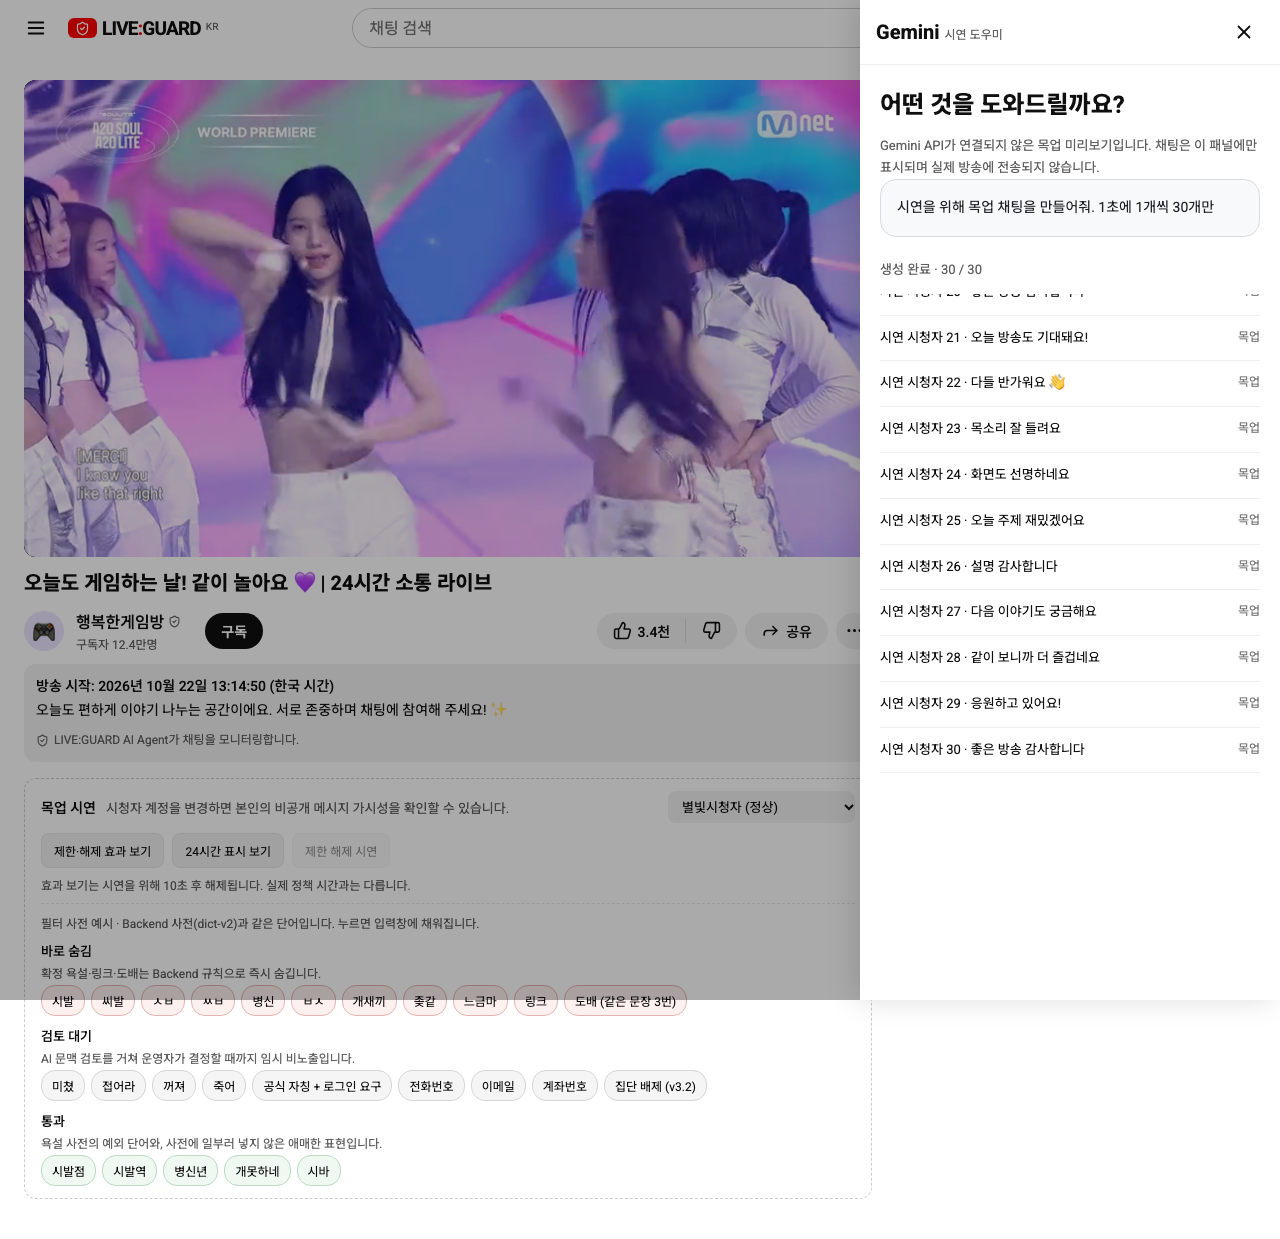
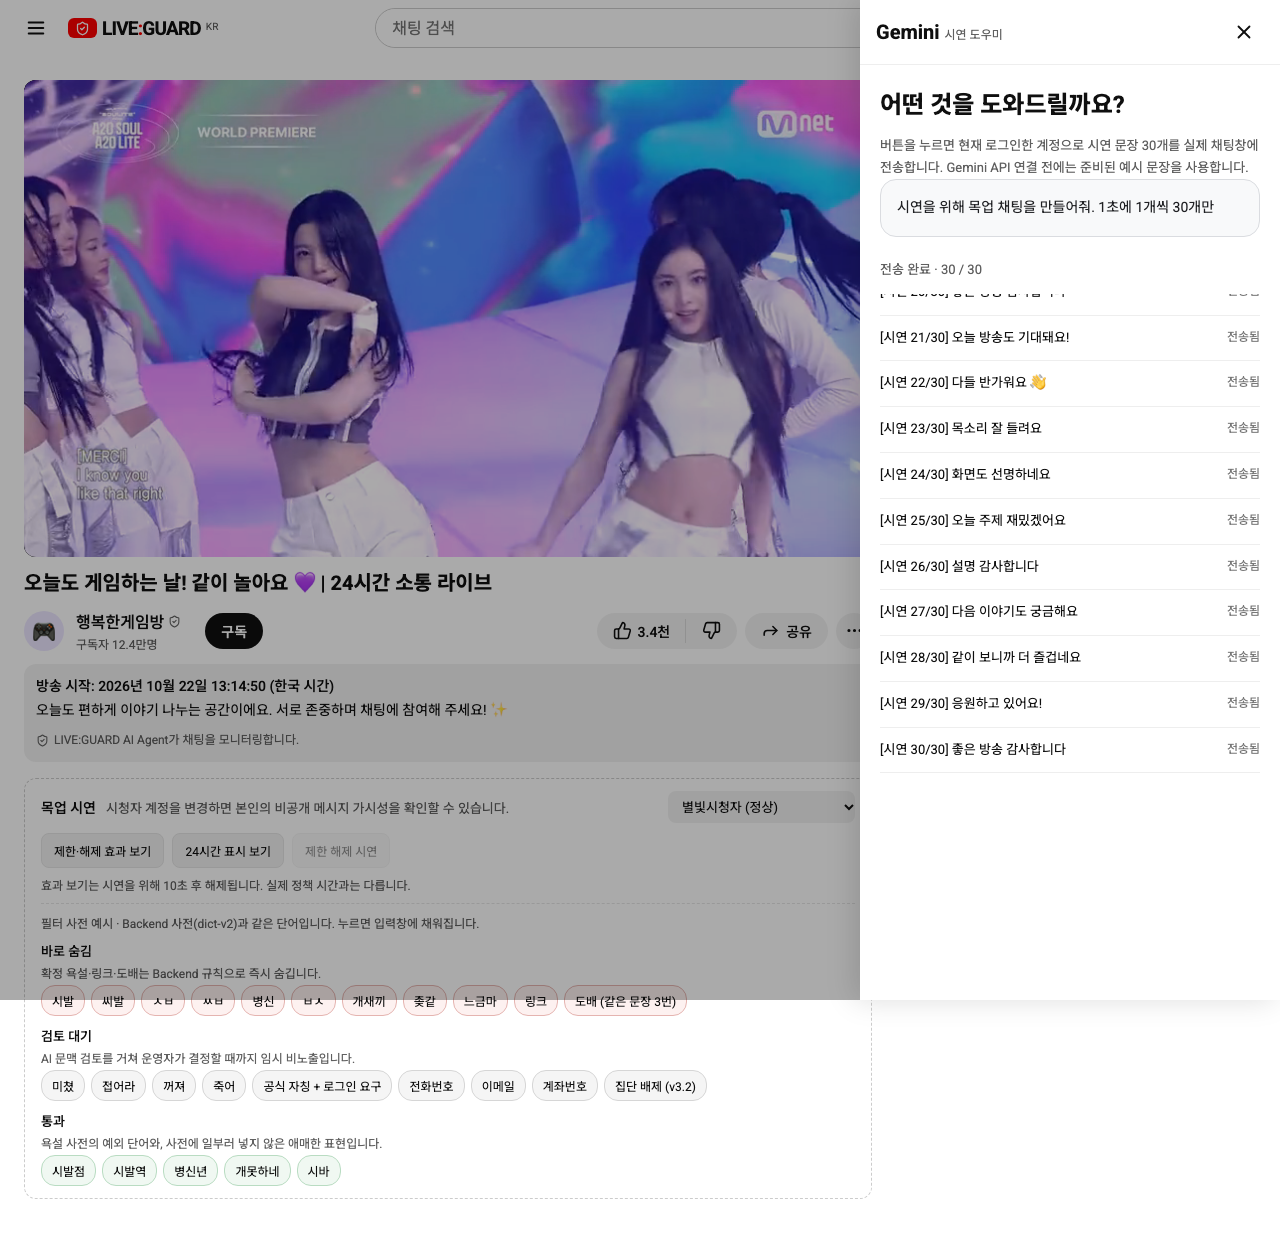
fix: send assistant demo messages into the actual viewer chat

diff --git a/src/ViewerAssistant.vue b/src/ViewerAssistant.vue
@@ -1,31 +1,35 @@
 <script setup lang="ts">
-import {nextTick,onBeforeUnmount,ref,watch} from 'vue';
+import {nextTick,onBeforeUnmount,onMounted,ref,watch} from 'vue';
 import {X} from 'lucide-vue-next';
-const props=defineProps<{scopeKey:string}>();
-const open=ref(false),trigger=ref<HTMLButtonElement|null>(null),closeButton=ref<HTMLButtonElement|null>(null),list=ref<HTMLElement|null>(null);
-const chats=ref<string[]>([]),running=ref(false);
+const props=defineProps<{scopeKey:string;disabled:boolean;sendChat?:(text:string)=>Promise<boolean>}>();
+const open=ref(false),trigger=ref<HTMLButtonElement|null>(null),closeButton=ref<HTMLButtonElement|null>(null),list=ref<HTMLElement|null>(null),panel=ref<HTMLElement|null>(null);
+const chats=ref<string[]>([]),running=ref(false),failure=ref(''),pending=ref(false);
+let generation=0;
 let timer:ReturnType<typeof setInterval>|undefined;
 const lines=['오늘 방송도 기대돼요!','다들 반가워요 👋','목소리 잘 들려요','화면도 선명하네요','오늘 주제 재밌겠어요','설명 감사합니다','다음 이야기도 궁금해요','같이 보니까 더 즐겁네요','응원하고 있어요!','좋은 방송 감사합니다'];
-function stop(){if(timer)clearInterval(timer);timer=undefined;running.value=false;}
-function start(){if(running.value)return;chats.value=[];running.value=true;timer=setInterval(async()=>{const n=chats.value.length;chats.value.push(`시연 시청자 ${n+1} · ${lines[n%lines.length]}`);if(chats.value.length===30)stop();await nextTick();list.value?.scrollTo({top:list.value.scrollHeight});},1000);}
+function stop(){generation++;if(timer)clearInterval(timer);timer=undefined;running.value=false;}
+function start(){if(running.value||pending.value||props.disabled||!props.sendChat)return;chats.value=[];failure.value='';running.value=true;const run=++generation;timer=setInterval(async()=>{if(pending.value||run!==generation)return;if(props.disabled){stop();return;}pending.value=true;const n=chats.value.length;const text=`[시연 ${n+1}/30] ${lines[n%lines.length]}`;try{const ok=await props.sendChat!(text);if(run!==generation)return;if(!ok){failure.value='전송이 중단되었습니다. 방송 상태와 채팅 제한을 확인해 주세요.';stop();return;}chats.value.push(text);if(chats.value.length===30)stop();await nextTick();list.value?.scrollTo({top:list.value.scrollHeight});}catch{if(run===generation){failure.value='채팅 전송에 실패하여 중단했습니다.';stop();}}finally{pending.value=false;}},1000);}
 async function show(){open.value=true;await nextTick();closeButton.value?.focus();}
-function close(){open.value=false;stop();trigger.value?.focus();}
-function key(e:KeyboardEvent){if(e.key==='Escape'){e.preventDefault();e.stopPropagation();close();}else if(e.key==='Tab'){const buttons=Array.from((e.currentTarget as HTMLElement).querySelectorAll<HTMLButtonElement>('button:not(:disabled)'));const first=buttons[0],last=buttons[buttons.length-1];if(e.shiftKey&&document.activeElement===first){e.preventDefault();last?.focus();}else if(!e.shiftKey&&document.activeElement===last){e.preventDefault();first?.focus();}}}
+async function close(){open.value=false;stop();await nextTick();trigger.value?.focus();}
+function key(e:KeyboardEvent){if(!open.value)return;if(e.key==='Escape'){e.preventDefault();e.stopPropagation();close();}else if(e.key==='Tab'){const buttons=Array.from(panel.value?.querySelectorAll<HTMLButtonElement>('button:not(:disabled)')??[]);const first=buttons[0],last=buttons[buttons.length-1];if(e.shiftKey&&document.activeElement===first){e.preventDefault();last?.focus();}else if(!e.shiftKey&&document.activeElement===last){e.preventDefault();first?.focus();}}}
 watch(()=>props.scopeKey,()=>{stop();chats.value=[];open.value=false;});
-onBeforeUnmount(stop);
+watch(()=>props.disabled,value=>{if(value&&running.value){failure.value='방송 상태 또는 채팅 제한으로 중단되었습니다.';stop();}});
+onMounted(()=>document.addEventListener('keydown',key));
+onBeforeUnmount(()=>{stop();document.removeEventListener('keydown',key);});
 </script>
 <template>
  <button ref="trigger" type="button" class="yt-icon-button viewer-assistant-trigger" aria-label="Gemini 시연 도우미 열기" aria-haspopup="dialog" :aria-expanded="open" @click="show"><svg viewBox="0 0 32 32" width="28" height="28" aria-hidden="true"><defs><linearGradient id="viewer-assistant-gradient" x1="0" y1="1" x2="1" y2="0"><stop stop-color="#4285f4"/><stop offset=".45" stop-color="#9b72cb"/><stop offset=".72" stop-color="#d96570"/><stop offset="1" stop-color="#fbbc04"/></linearGradient></defs><path fill="url(#viewer-assistant-gradient)" d="M16 1C14 10 10 14 1 16c9 2 13 6 15 15 2-9 6-13 15-15C22 14 18 10 16 1Z"/></svg></button>
  <Teleport to="body"><template v-if="open">
  <div class="viewer-assistant-shade" @click="close"/>
- <section class="viewer-assistant" role="dialog" aria-modal="true" aria-labelledby="viewer-assistant-title" @keydown="key">
+ <section ref="panel" class="viewer-assistant" role="dialog" aria-modal="true" aria-labelledby="viewer-assistant-title">
  <header><b>Gemini <small>시연 도우미</small></b><button ref="closeButton" type="button" class="yt-icon-button" aria-label="시연 도우미 닫기" @click="close"><X :size="22"/></button></header>
- <div class="viewer-assistant-content"><h2 id="viewer-assistant-title">어떤 것을 도와드릴까요?</h2><p>Gemini API가 연결되지 않은 목업 미리보기입니다. 채팅은 이 패널에만 표시되며 실제 방송에 전송되지 않습니다.</p>
- <button type="button" class="viewer-assistant-prompt" :disabled="running" @click="start">시연을 위해 목업 채팅을 만들어줘. 1초에 1개씩 30개만</button>
- <div class="viewer-assistant-progress" role="status">{{running?'목업 채팅 생성 중':chats.length===30?'생성 완료':'목업 채팅 미리보기'}} · {{chats.length}} / 30</div>
+ <div class="viewer-assistant-content"><h2 id="viewer-assistant-title">어떤 것을 도와드릴까요?</h2><p>버튼을 누르면 현재 로그인한 계정으로 시연 문장 30개를 실제 채팅창에 전송합니다. Gemini API 연결 전에는 준비된 예시 문장을 사용합니다.</p>
+ <button type="button" class="viewer-assistant-prompt" :disabled="running||pending||disabled||!sendChat" @click="start">시연을 위해 목업 채팅을 만들어줘. 1초에 1개씩 30개만</button>
+ <div class="viewer-assistant-progress" role="status">{{running?'채팅창에 전송 중':chats.length===30?'전송 완료':'전송한 시연 채팅'}} · {{chats.length}} / 30</div>
+ <p v-if="disabled">방송 중이며 채팅할 수 있는 상태에서 실행할 수 있습니다.</p><p v-if="failure" role="alert">{{failure}}</p>
  <button v-if="running" type="button" class="viewer-assistant-stop" @click="stop">생성 중지</button>
- <p v-if="!chats.length" class="viewer-assistant-empty">버튼을 누르면 1초 뒤 첫 채팅이 표시됩니다.</p>
- <ol ref="list" class="viewer-assistant-chats" aria-label="목업 채팅 미리보기"><li v-for="(chat,i) in chats" :key="i"><span>{{chat}}</span><small>목업</small></li></ol>
+ <p v-if="!chats.length" class="viewer-assistant-empty">버튼을 누르면 1초 뒤 첫 채팅을 전송합니다.</p>
+ <ol ref="list" class="viewer-assistant-chats" aria-label="전송한 시연 채팅"><li v-for="(chat,i) in chats" :key="i"><span>{{chat}}</span><small>전송됨</small></li></ol>
  </div></section>
  </template></Teleport>
 </template>

diff --git a/src/LiveConsole.vue b/src/LiveConsole.vue
@@ -220,6 +220,15 @@ async function send(){
  try{await api.sendLive(live.value.liveId,value,outgoing.id);text.value='';outgoing=null;await refresh();}
  catch(e){fail(e);}finally{busy.value=false;}
 }
+// Uses the normal authenticated chat endpoint; never changes the user's draft.
+async function sendDemoChat(value:string):Promise<boolean>{
+ if(chatDisabled.value||!live.value)return false;
+ const liveId=live.value.liveId;
+ if(!await sessionValid()||chatDisabled.value||live.value?.liveId!==liveId)return false;
+ busy.value=true;error.value='';
+ try{await api.sendLive(liveId,value,uuid());await refresh();return true;}
+ catch(e){fail(e);return false;}finally{busy.value=false;}
+}
 const requests=new Map<string,{serialized:string;id:string}>();
 async function decide(r:LiveReview,value:string,reason:string,categories:Category[]){
  if(!await sessionValid())return;
@@ -256,7 +265,7 @@ onMounted(()=>{load();window.addEventListener('focus',checkSession);if(authChann
 onBeforeUnmount(()=>{generation++;disconnect();window.removeEventListener('focus',checkSession);authChannel?.close();if(timer)clearInterval(timer);if(clockTimer)clearInterval(clockTimer);});
 </script>
 <template>
- <ViewerScreen v-if="!operator&&!admin" v-model:draft="text" :messages="visibleMessages" :nickname="store.me?.nickname??'시청자'" :scope-key="`${store.me?.userId}:${live?.liveId??''}`" :clock="clock" :ready="accessReady" :loading="loading" :has-live="!!live" :blocked="blocked" :ended="ended" :busy="busy" :timed-out="timedOut" :timeout-until="timeoutUntil" :timeout-reason="timeoutReason" :started-at="live?.startedAt" :online="online" :error="error" :notice="notice" @send="send" @logout="store.logout()"/>
+ <ViewerScreen :send-demo-chat="sendDemoChat" v-if="!operator&&!admin" v-model:draft="text" :messages="visibleMessages" :nickname="store.me?.nickname??'시청자'" :scope-key="`${store.me?.userId}:${live?.liveId??''}`" :clock="clock" :ready="accessReady" :loading="loading" :has-live="!!live" :blocked="blocked" :ended="ended" :busy="busy" :timed-out="timedOut" :timeout-until="timeoutUntil" :timeout-reason="timeoutReason" :started-at="live?.startedAt" :online="online" :error="error" :notice="notice" @send="send" @logout="store.logout()"/>
  <StudioScreen v-else-if="operator" :nickname="store.me?.nickname??'스트리머'" :live="live" :ended="ended" :loading="loading" :online="online" :messages="visibleMessages" :reviews="reviews" :cases="caseHistory" :case-names="caseNames" :logs="logs" :kick-progress="kickProgress" :archive="archive" :archive-more="archiveMore" :archive-loading="archiveLoading" :busy="busy" :error="error" :notice="notice"
   @decide="decide" @revoke="revoke" @start="start" @end="end" @logout="store.logout()" @page="onPage" @load-older="loadArchive(false)"/>
  <!-- 시스템 운영자: 목업과 같은 화면. 백엔드에 시스템 운영자 권한과 여러 방송 조회 API가 없어 데이터 칸은 비어 있다 -->

diff --git a/src/ViewerScreen.vue b/src/ViewerScreen.vue
@@ -14,6 +14,7 @@ import { avatarColor } from './avatar';
 // 호출자가 준 것만 보이고, 계약에 없는 실제 API는 비워 둔다(#28).
 const props = withDefaults(defineProps<{
   messages: Message[];
+  sendDemoChat?: (text:string)=>Promise<boolean>;
   nickname: string;
   scopeKey: string;
   clock: number;
@@ -115,7 +116,7 @@ function dislike() { disliked.value = !disliked.value; if (disliked.value) liked
   <div class="viewer-shell" :class="{'api-viewer': !mock}">
     <header class="yt-masthead">
       <div class="yt-masthead-start"><span class="yt-icon-button" aria-hidden="true"><Menu :size="22"/></span><a class="yt-logo" href="#"><span class="yt-logo-mark"><ShieldCheck :size="15"/></span><b>LIVE<span>:</span>GUARD</b><sup>KR</sup></a></div>
-      <div class="yt-search"><div class="yt-search-box"><input ref="searchRef" v-model="query" placeholder="채팅 검색" aria-label="채팅 검색"/><button title="채팅 검색" @click="searchRef?.focus()"><Search :size="20"/></button></div><ViewerAssistant :scope-key="scopeKey"/></div>
+      <div class="yt-search"><div class="yt-search-box"><input ref="searchRef" v-model="query" placeholder="채팅 검색" aria-label="채팅 검색"/><button title="채팅 검색" @click="searchRef?.focus()"><Search :size="20"/></button></div><ViewerAssistant :scope-key="scopeKey" :disabled="!ready||loading||!hasLive||blocked||ended||timedOut" :send-chat="sendDemoChat"/></div>
       <div class="yt-masthead-end">
         <AccountMenu :nickname="nickname" account-label="시청자 계정" @logout="emit('logout')"/>
       </div>

diff --git a/src/ViewerPage.vue b/src/ViewerPage.vue
@@ -22,7 +22,7 @@ function previewTimeout(seconds: 0 | 10 | 86400) {
 
 <template>
   <!-- 채널 이름·구독자·시청자·좋아요·알림 수는 목업 예시 값이다. 실제 API는 계약에 없어 비워 둔다 -->
-  <ViewerScreen v-model:draft="input" :messages="store.viewerMessages" :nickname="store.viewerAlias" :scope-key="store.channelId + ':' + store.viewerId" :clock="store.clock" mock :busy="store.busy" :blocked="store.kicked" :timed-out="store.timedOut" :timeout-until="store.viewerTimeoutUntil" :timeout-reason="timeoutReason" :started-at="store.mock.state.live.startedAt" :error="store.error" :notice="store.notice"
+  <ViewerScreen :send-demo-chat="store.sendMessage" v-model:draft="input" :messages="store.viewerMessages" :nickname="store.viewerAlias" :scope-key="store.channelId + ':' + store.viewerId" :clock="store.clock" mock :busy="store.busy" :blocked="store.kicked" :timed-out="store.timedOut" :timeout-until="store.viewerTimeoutUntil" :timeout-reason="timeoutReason" :started-at="store.mock.state.live.startedAt" :error="store.error" :notice="store.notice"
     title="오늘도 게임하는 날! 같이 놀아요 💜 | 24시간 소통 라이브" channel-name="행복한게임방" channel-avatar="🎮" subscribers="12.4만명" viewers="2,341" :likes="3400" @send="send" @logout="store.logout()">
     <template #demo>
       <div class="viewer-demo">

diff --git a/docs/viewer-assistant.md b/docs/viewer-assistant.md
@@ -1,23 +1,32 @@
-# 시청자 시연 도우미
+# 시청자 시연 채팅 도우미
 
-시청자 검색창 오른쪽의 기존 마이크 버튼 자리에 배치한 Gemini 모양 아이콘을 누르면 오른쪽에서 ‘어떤 것을 도와드릴까요?’ 패널이 열립니다. ‘시연을 위해 목업 채팅을 만들어줘. 1초에 1개씩 30개만’ 버튼으로 1초 뒤부터 초당 1개씩 30개를 미리 보여줍니다.
+검색창 오른쪽의 기존 마이크 자리에 있는 Gemini 모양 아이콘을 누르면 오른쪽에 ‘어떤 것을 도와드릴까요?’ 패널이 열립니다. ‘시연을 위해 목업 채팅을 만들어줘. 1초에 1개씩 30개만’ 버튼은 **실제 시청자 채팅창으로 시연 문장을 전송**합니다. 이전 패널 안 미리보기 구현은 이 동작으로 교체했습니다.
 
-현재 Gemini API 연결은 없으며 고정 예시 문장을 사용하는 목업입니다. 패널에 이를 명시했고 실제 방송 채팅이나 검토 대기열에 섞지 않습니다. API 콘솔에서도 동일한 로컬 미리보기를 제공합니다. Backend·Agent·인증·ERD 변경과 Gemini 비밀키는 없습니다.
+## 전송 방식
 
-생성 중 버튼은 비활성화되고 건수가 표시됩니다. 중지 버튼, 패널 닫기, 계정/방송 범위 변경, 화면 해제 시 타이머를 중단합니다. 완료 후 재실행하면 목록을 초기화합니다. Esc·배경 클릭으로 닫기, 버튼 초점 복귀, 패널 안 키보드 순환 및 움직임 줄이기를 지원합니다.
+API 모드에서는 로그인한 시청자 계정으로 기존 `sendLive` 채팅 API를 호출합니다. 목업에서는 기존 `store.sendMessage`를 사용합니다. 판정·채팅 제한·SSE 반영은 일반 채팅과 같은 경로를 따릅니다. 임의로 다른 시청자 계정을 만들거나 클라이언트에서 정상 판정을 만들지 않습니다. 문장에 `[시연 n/30]`을 붙여 시연임을 표시하며 작성 중인 초안은 건드리지 않습니다.
+
+첫 전송은 1초 후이며, 1초 간격 타이머에서 최대 1건씩 전송합니다. 이전 요청이 끝나지 않았다면 해당 tick을 건너뛰어 중복/밀린 요청 폭주를 막으므로 서버가 느리면 완료까지 30초 이상 걸릴 수 있습니다. 성공한 전송만 건수로 셉니다. 최대 30건 후 종료하며 실패는 자동 재시도하지 않습니다.
+
+Gemini API 연동은 현재 없습니다. 준비된 예시 문장을 사용한다고 패널에 명시했습니다. 실제 Gemini 생성이 필요하면 서버 측 생성 API와 키 관리가 추가로 필요합니다. 이번 변경에 API·ERD·정책 변경이나 브라우저 비밀키는 없습니다.
+
+## 중단과 상태
+
+방송이 없거나 채팅 제한·강퇴·방송 종료 상태이면 실행할 수 없습니다. 실행 중 동일한 상태로 바뀌거나 API가 실패하면 중단합니다. 생성 중지·패널 닫기·계정/방송 범위 변경·화면 해제도 후속 전송을 취소합니다. 이미 서버로 보낸 요청은 취소/삭제하지 않습니다. 패널에는 성공한 전송 내역과 중단 이유를 표시합니다.
 
 ## 캡처
 
-실제 localhost:3000 API 콘솔에서 로컬 시연 생성 중:
+목업: 실제 채팅 목록으로 전송 완료(패널은 전송 내역)
 
-![실제 API 모바일](evidence/viewer-assistant/actual-api-390.png)
+![목업 전송](evidence/viewer-assistant/mock-desktop.png)
 
-목업에서 30개 완료:
+실제 localhost:3000 채팅창:
 
-![목업 완료](evidence/viewer-assistant/mock-desktop.png)
+![실제 채팅](evidence/viewer-assistant/actual-api-390.png)
 
 ## 검증
 
-프로덕션 빌드 통과. Docker frontend만 재빌드하여 localhost:3000 반영. 신규 목업/API 브라우저 테스트 2/2 통과: 첫 999ms는 0개, 1000ms는 1개, 30초에 정확히 30개와 이후 추가 없음, 중복 실행 방지, 중지·닫기 취소, Esc 초점 복귀, 360px 가로 넘침 없음, 실제 messages POST 0회. 실제 API 콘솔에서도 3초간 3개 생성과 390px 패널 표시를 직접 확인했습니다. 이번 변경 후 전체 회귀 테스트는 실행하지 않았습니다.
-
-아이콘을 계정 아이콘 옆에서 검색창 오른쪽 마이크 자리로 이동했습니다. 마이크 버튼은 제거했으며 모바일에서도 도우미 아이콘을 유지합니다. 이동 후 목업/API 테스트 2/2, 프로덕션 빌드, 실제 localhost:3000 패널 열기·생성을 다시 확인했습니다.
+- 프로덕션 빌드 및 Docker frontend 재빌드.
+- 관련 브라우저 테스트 **3/3 통과**: 목업/API의 초당 1개·총 30개·API POST 30회·실제 채팅 목록 반영·작성 중 초안 유지·중복 방지·재실행·중지/닫기·모바일. API 실패/방송 종료 중단과 방송 없음 비활성화 확인.
+- 전체 회귀 테스트는 이번 변경 후 실행하지 않았습니다.
+- 실제 localhost:3000에서 시청자 계정으로 시연 채팅 30건 전송 완료 후 재로그인하여 마지막 `[시연 30/30]` 채팅을 확인했습니다. 실제 방송 시작/종료는 변경하지 않았습니다.
